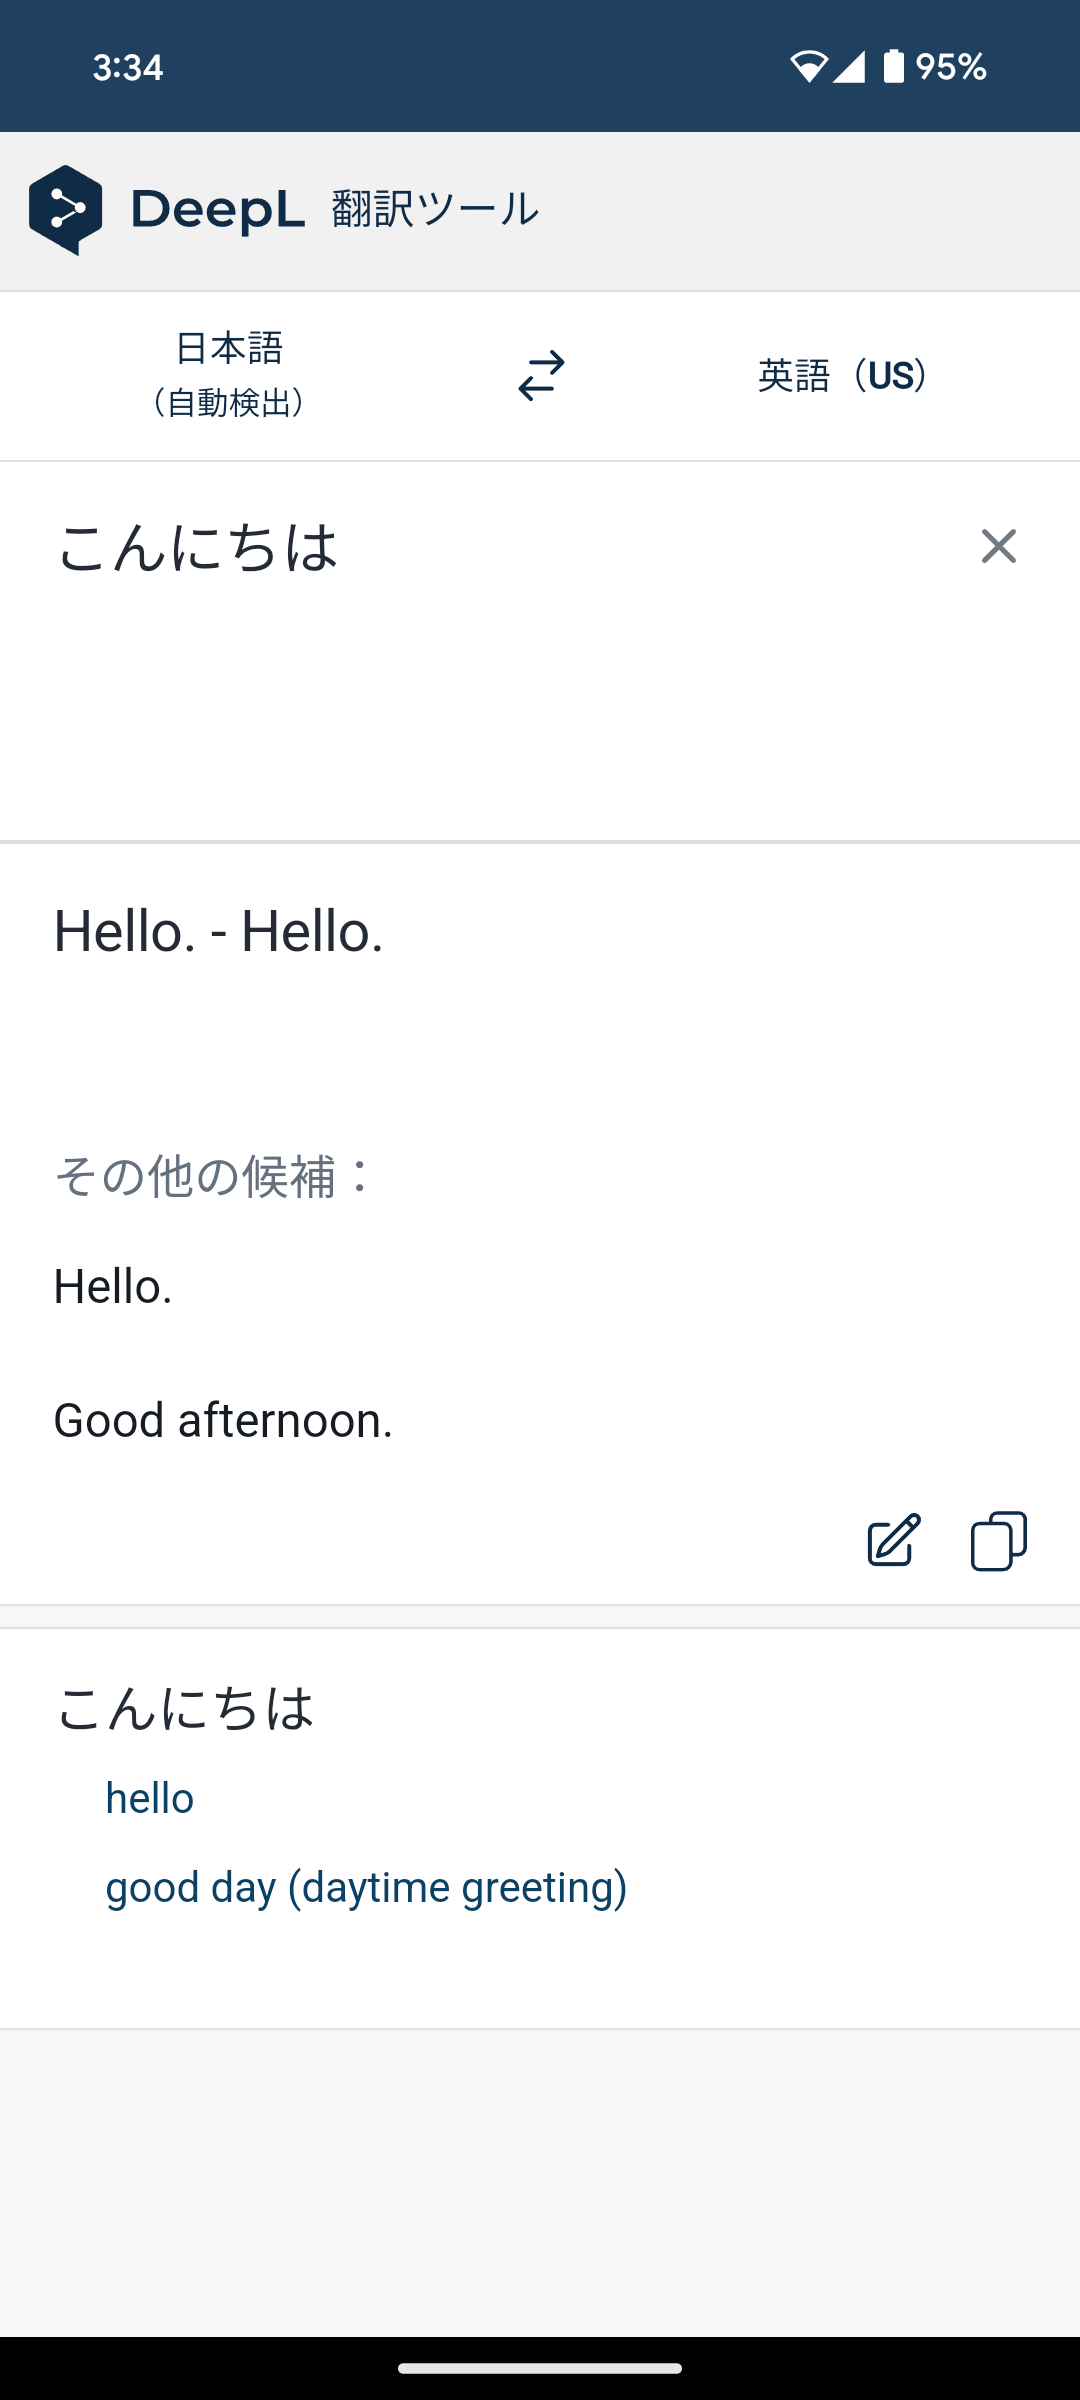
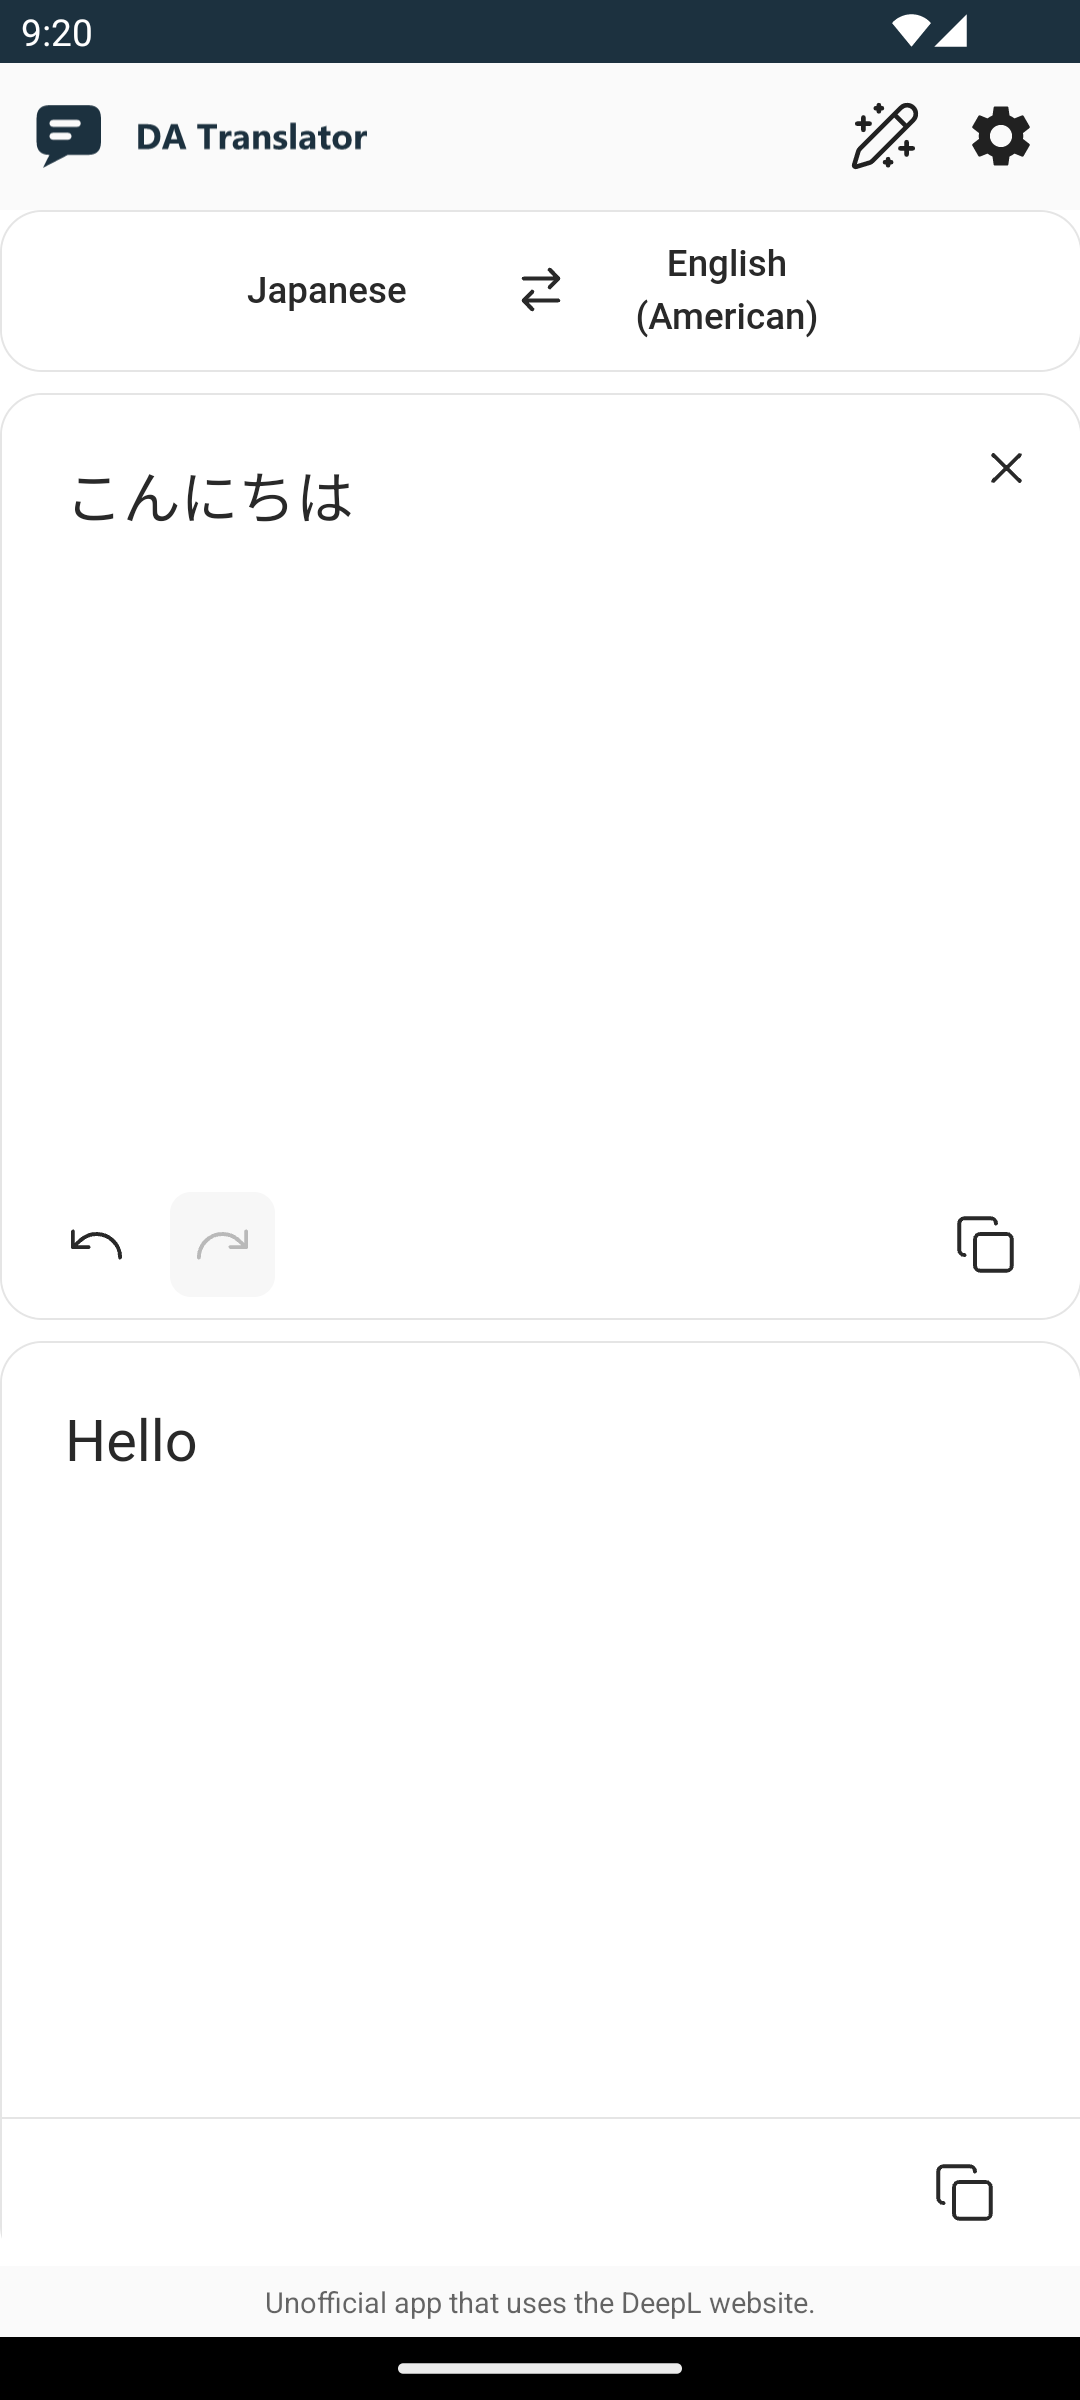
docs: DeepLAndroidをDA Translatorに改名し、画像を差し替え

diff --git a/posts/deepl-android.md b/posts/deepl-android.md
@@ -1,5 +1,5 @@
 ---
-title: DeepLAndroid
+title: DA Translator
 tag: Android, Kotlin, OSS
 overview: 非公式のDeepL翻訳サードパーティアプリのOSS開発
 date: 2020.8.1
@@ -8,11 +8,11 @@ date: 2020.8.1
 
 2020年の当時、DeepL公式のAndroidアプリが無く、わざわざブラウザからアクセスする必要がありました。そこで、WebViewとJavaScriptを使用して、シンプルなDeepL翻訳サードパーティアプリを開発しました。
 
-アプリをOSS化したところ大きな反響があり、GitHubで500スターを達成し、2025年1月時点で <a href="https://github.com/sakusaku3939/DeepLAndroid/issues?q=is%3Aissue+is%3Aclosed" target="_blank">68個の解決済みIssues</a> と <a href="https://github.com/sakusaku3939/DeepLAndroid/pulls?q=is%3Apr+is%3Aclosed" target="_blank">48個のPull requests</a> がマージされました。
+アプリをOSS化したところ大きな反響があり、GitHubで500スターを達成し、2025年1月時点で <a href="https://github.com/sakusaku3939/DA-Translator/issues?q=is%3Aissue+is%3Aclosed" target="_blank">68個の解決済みIssues</a> と <a href="https://github.com/sakusaku3939/DA-Translator/pulls?q=is%3Apr+is%3Aclosed" target="_blank">48個のPull requests</a> がマージされました。
 アプリ自体の言語は英語・日本語に加え、コントリビューターにより計11ヶ国語に対応しています。
 
 また、OSS専用アプリストアのF-Droidにリリースを行い、2021年から2026年まで5年ほど公開していました。
-https://github.com/sakusaku3939/DeepLAndroid
+https://github.com/sakusaku3939/DA-Translator
 
 ![](/public/posts/deepl-android/screenshot.png)
 
@@ -46,29 +46,11 @@ CIは以下のフローによって行われます。
 
 ![](/public/posts/deepl-android/webview-test3.png)
 
-# 議論
-
-- 選択メニューからDeepLアプリを起動
-  - Pull Requests: [#25](https://github.com/sakusaku3939/DeepLAndroid/pull/25), [#40](https://github.com/sakusaku3939/DeepLAndroid/pull/40), [#57](https://github.com/sakusaku3939/DeepLAndroid/pull/57), [#67](https://github.com/sakusaku3939/DeepLAndroid/pull/67)
-  - 議論・バグ修正: [#1](https://github.com/sakusaku3939/DeepLAndroid/issues/1), [#5](https://github.com/sakusaku3939/DeepLAndroid/issues/5), [#6](https://github.com/sakusaku3939/DeepLAndroid/issues/6), [#24](https://github.com/sakusaku3939/DeepLAndroid/issues/24), [#51](https://github.com/sakusaku3939/DeepLAndroid/issues/51), [#59](https://github.com/sakusaku3939/DeepLAndroid/issues/59), [#60](https://github.com/sakusaku3939/DeepLAndroid/issues/60), [#62](https://github.com/sakusaku3939/DeepLAndroid/issues/62), [#64](https://github.com/sakusaku3939/DeepLAndroid/issues/60), [#69](https://github.com/sakusaku3939/DeepLAndroid/issues/69)
-# br-16px
-
-- 設定画面・ダークモードへの切り替え
-  - Pull Requests: [#28](https://github.com/sakusaku3939/DeepLAndroid/pull/28), [#30](https://github.com/sakusaku3939/DeepLAndroid/pull/30), [#37](https://github.com/sakusaku3939/DeepLAndroid/pull/37)
-  - 議論・バグ修正: [#17](https://github.com/sakusaku3939/DeepLAndroid/issues/17), [#33](https://github.com/sakusaku3939/DeepLAndroid/issues/33), [#34](https://github.com/sakusaku3939/DeepLAndroid/issues/34), [#38](https://github.com/sakusaku3939/DeepLAndroid/issues/38), [#55](https://github.com/sakusaku3939/DeepLAndroid/issues/55), [#99](https://github.com/sakusaku3939/DeepLAndroid/issues/99)
-# br-16px
-
-- JavaScript関連
-  - Pull Requests: [#2](https://github.com/sakusaku3939/DeepLAndroid/pull/2), [#35](https://github.com/sakusaku3939/DeepLAndroid/pull/35), [#36](https://github.com/sakusaku3939/DeepLAndroid/pull/36)
-  - 議論・バグ修正: [#19](https://github.com/sakusaku3939/DeepLAndroid/issues/19), [#23](https://github.com/sakusaku3939/DeepLAndroid/issues/23), [#77](https://github.com/sakusaku3939/DeepLAndroid/issues/77), [#80](https://github.com/sakusaku3939/DeepLAndroid/issues/80), [#90](https://github.com/sakusaku3939/DeepLAndroid/issues/90), [#96](https://github.com/sakusaku3939/DeepLAndroid/issues/96), [#104](https://github.com/sakusaku3939/DeepLAndroid/issues/104), [#111](https://github.com/sakusaku3939/DeepLAndroid/issues/111)
-
 # リンク
-- リリース版 (F-Droid)  
-  https://f-droid.org/packages/com.example.deeplviewer
 - リリース版 (GitHub)  
-  https://github.com/sakusaku3939/DeepLAndroid/releases
+  https://github.com/sakusaku3939/DA-Translator/releases
 - GitHub  
-  https://github.com/sakusaku3939/DeepLAndroid
+  https://github.com/sakusaku3939/DA-Translator
 
 # 使用技術
 言語 ・・・ Kotlin, JavaScript
